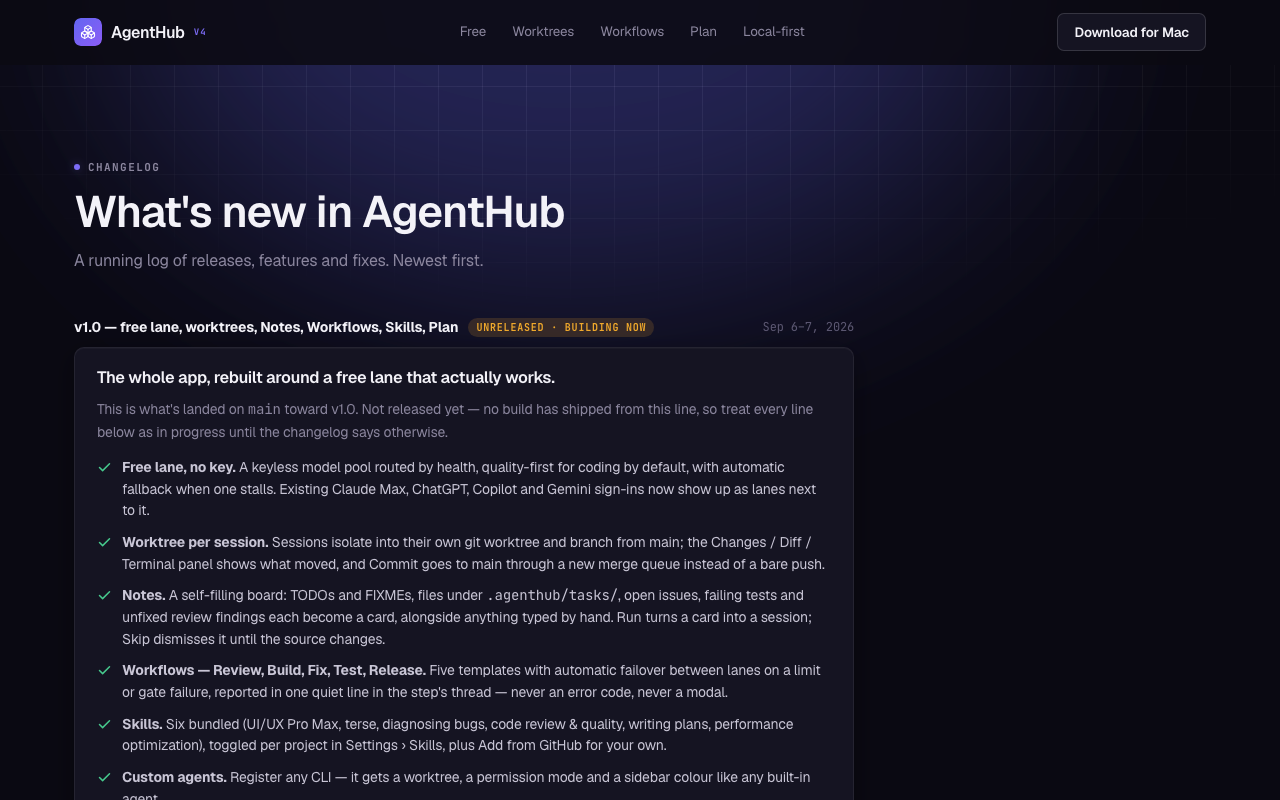
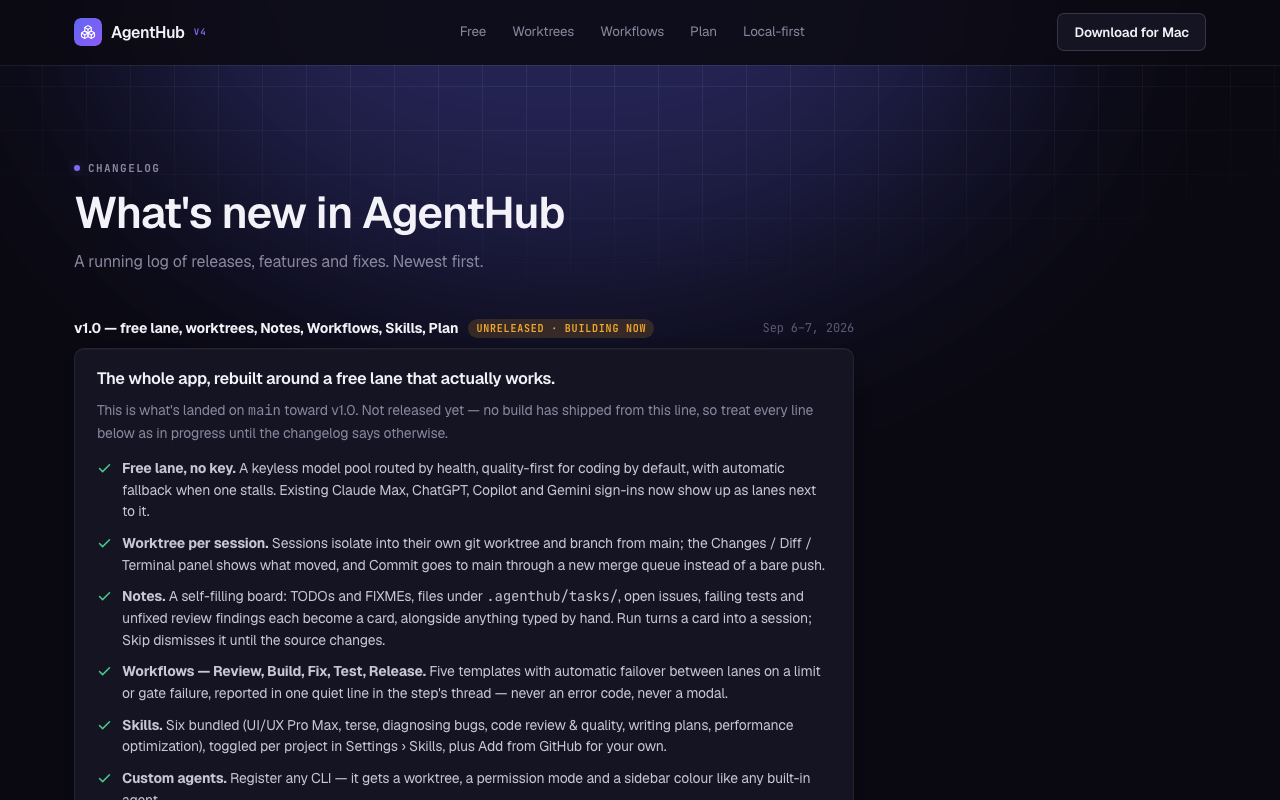
site: drop internal-doc phrasing and source paths from Plan copy; fix hero/free-section overlap at 1280x800

diff --git a/styles.css b/styles.css
@@ -83,7 +83,7 @@ button:focus-visible, a:focus-visible, input:focus-visible { outline: 2px solid 
 .section-head { max-width: 640px; margin-bottom: 40px; }
 .section-head h2 { font-size: clamp(26px, 3.4vw, 38px); }
 .section-head p { margin-top: 12px; color: var(--t3); font-size: 16.5px; }
-.section-pad { padding-block: 88px; }
+.section-pad { padding-block: 88px; border-top: 1px solid var(--l1); }
 @media (max-width: 720px) { .section-pad { padding-block: 56px; } }
 
 /* ---------- ambient background ---------- */
@@ -231,6 +231,11 @@ footer { border-top: 1px solid var(--l1); padding-block: 52px 28px; margin-top: 
 @media (min-width: 900px) {
   .hero-grid { grid-template-columns: 1fr 1.15fr; align-items: center; }
   .feature { grid-template-columns: 1fr 1fr; gap: 56px; }
+  /* At this width the hero's screenshot sits in the same right-hand column as the next
+     section's screenshot, with no heading in that column to signal a new section — give
+     #free extra top space so its own screenshot never reads as a second one glued to the
+     hero's. (Narrower layouts stack text above image, so this isn't needed there.) */
+  #free { padding-top: 200px; }
 }
 @media (max-width: 860px) {
   .nav-links, .nav-right .btn-ghost { display: none; }

diff --git a/plan/index.html b/plan/index.html
@@ -75,8 +75,7 @@
         <p>AgentHub Free runs every template, every workflow and every skill — nothing is ever locked
           away. Free only ceilings the scale: how many sessions run at once, how far a review fans out,
           whether a stuck step can fail over onto a paid lane. AgentHub Plan lifts every one of those
-          ceilings. There is no payment flow yet — this page is the plan, ahead of the switch to turn it
-          on.</p>
+          ceilings. Plan arrives with v1.0. Until then everything below is free.</p>
       </div>
     </div>
   </section>
@@ -87,8 +86,7 @@
       <div class="section-head reveal">
         <span class="eyebrow"><span class="dot"></span> The real ceilings</span>
         <h2>What Free gives you, and what Plan lifts.</h2>
-        <p>Pulled straight from the daemon's own limits (<code>crates/agenthubd/src/plan.rs</code>) — this
-          is what the app actually enforces today, not a wish list.</p>
+        <p>These are the limits the app enforces today.</p>
       </div>
       <table class="plan-table reveal">
         <caption>Free vs AgentHub Plan</caption>

diff --git a/index.html b/index.html
@@ -21,8 +21,8 @@
   <meta name="twitter:description" content="No API key, no account. Parallel sessions in their own worktrees. Nothing leaves your Mac unless a lane you chose calls its provider." />
   <meta name="twitter:image" content="assets/og.svg" />
 
-  <!-- Same type family as the app (design/studio/app/layout.tsx): Geist, JetBrains Mono, Instrument
-       Serif — via Google Fonts, with the system-font fallback the README describes. -->
+  <!-- Same type family as the app: Geist, JetBrains Mono, Instrument Serif — via Google Fonts,
+       with a system-font fallback. -->
   <link rel="preconnect" href="https://fonts.googleapis.com" />
   <link rel="preconnect" href="https://fonts.gstatic.com" crossorigin />
   <link href="https://fonts.googleapis.com/css2?family=Geist:wght@400;500;600;700&family=JetBrains+Mono:wght@400;500;700&family=Instrument+Serif:ital@0;1&display=swap" rel="stylesheet" />
